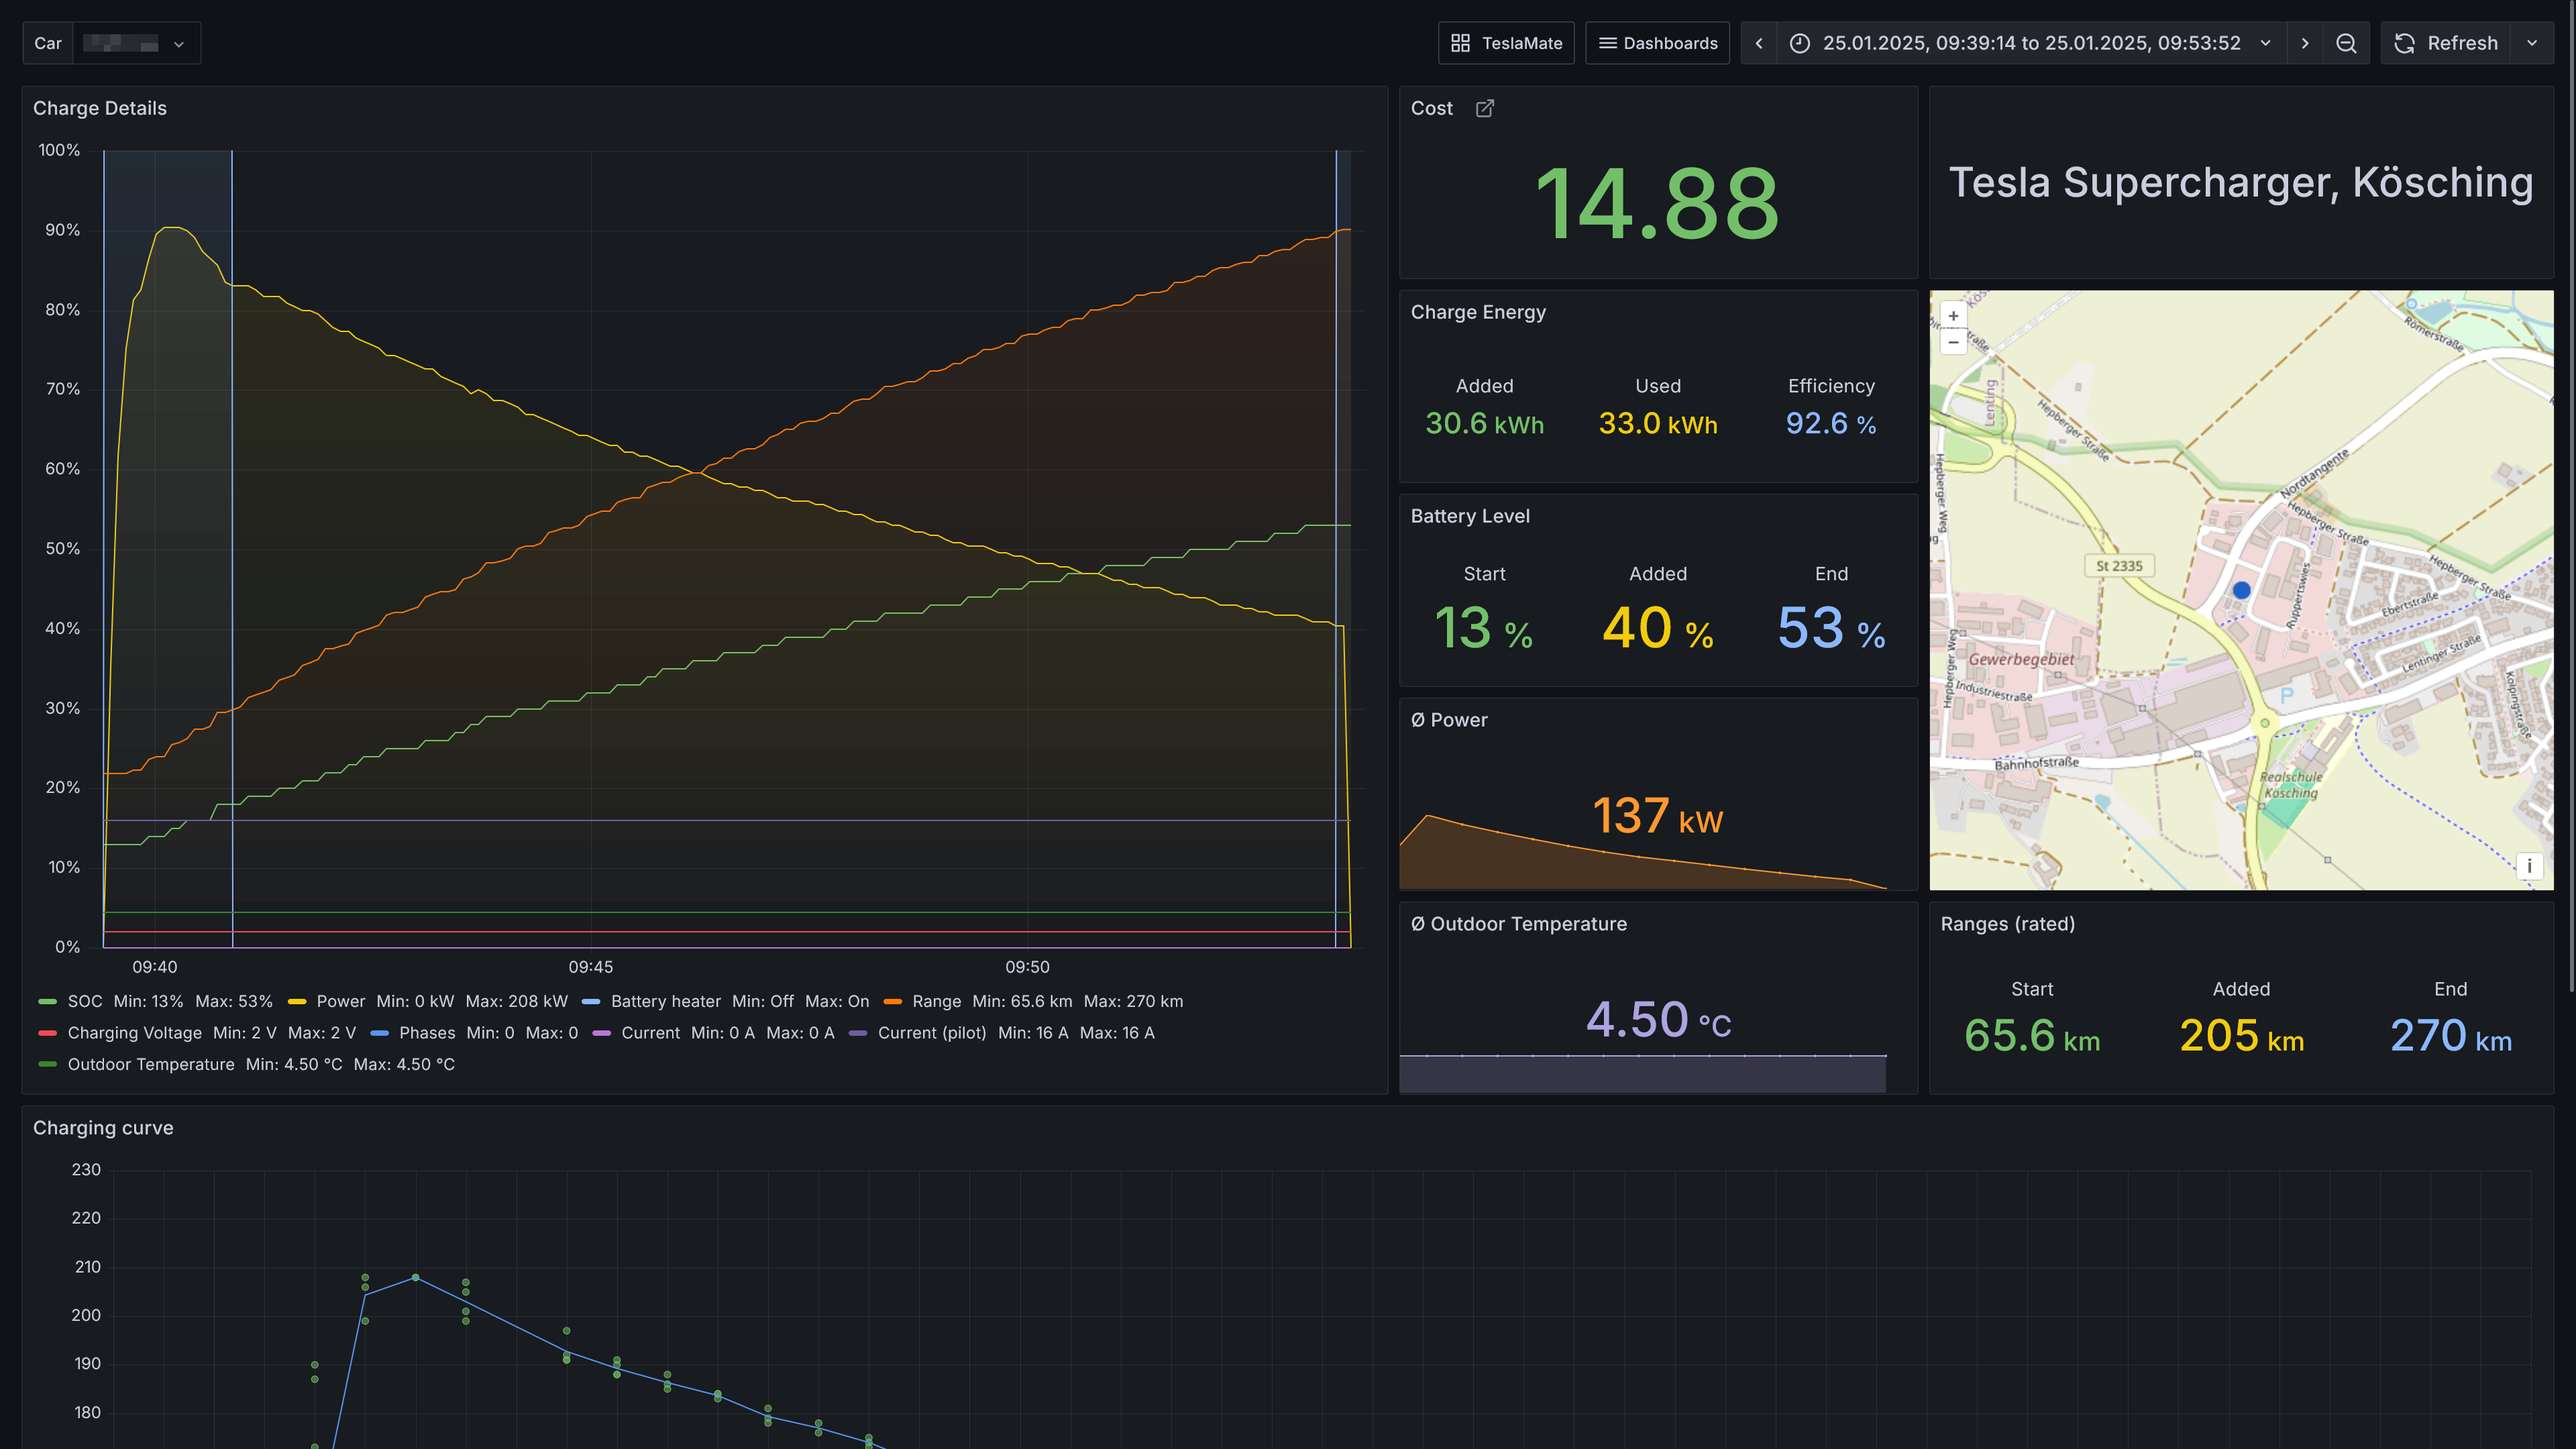
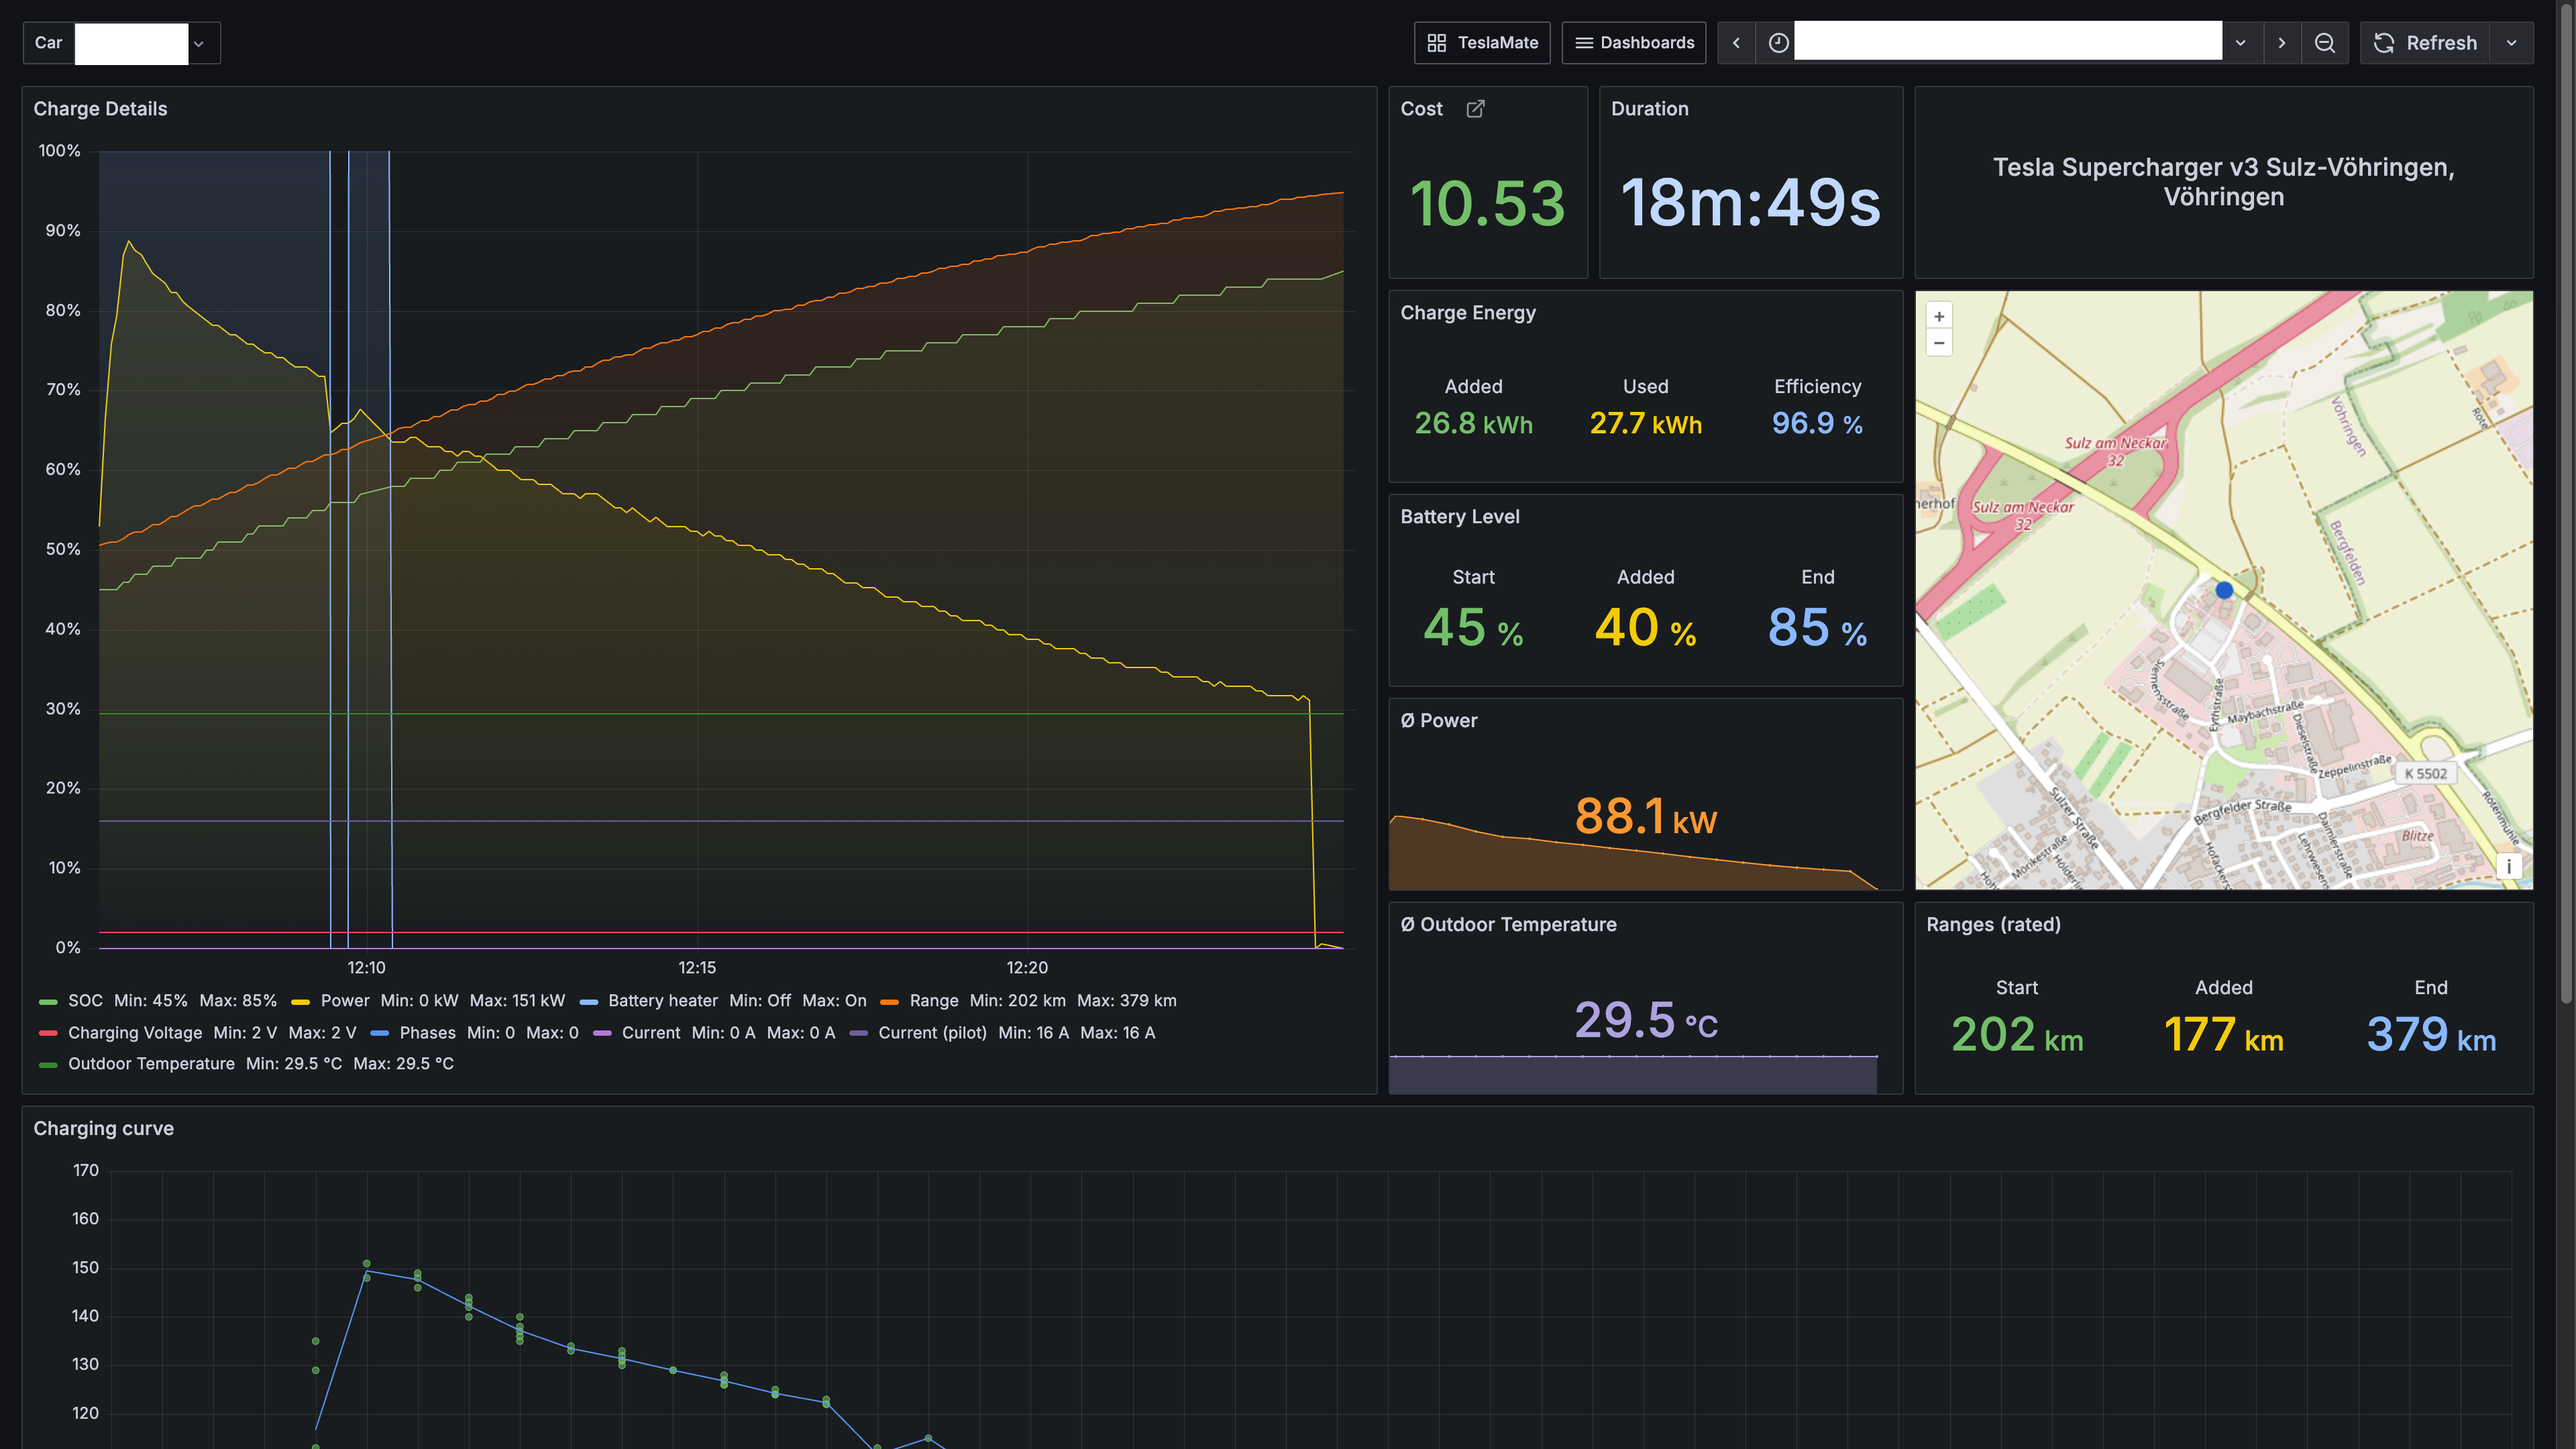
feat: add duration time to charges details dashboard (#4677)
* Add duration time

* Add screenshot

* docs: update screenshot with correct dimensions

* docs: update changelog

---------

diff --git a/CHANGELOG.md b/CHANGELOG.md
@@ -143,6 +143,7 @@ Enjoy it.
 - fix: set $\_\_timezone explicitly in dashboards to ensure truncation is done with respect to the Grafana timezone (#4684 - @swiffer)
 - fix: issues when using browser locale for date formats (#4662 - @swiffer)
 - fix: widens Date Columns to fully show date strings formatted in US locale (#4662 - @swiffer)
+- feat: add duration time to charges details dashboard (#4677 - @jheredianet)
 
 #### Translations
 
